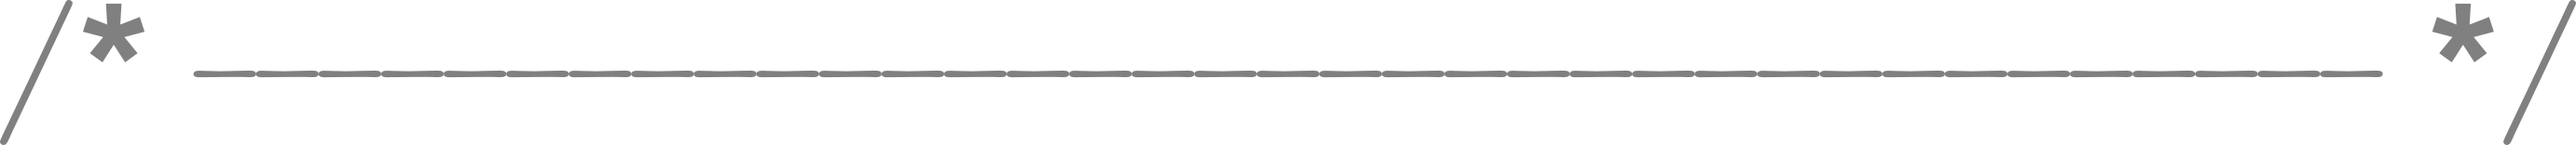
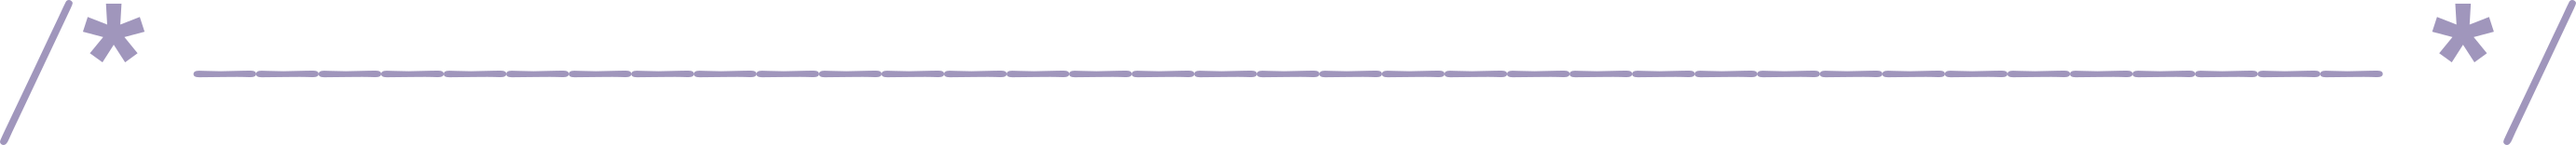
Made some color changes to buttons and to the title design underneath

diff --git a/css/skeleton.css b/css/skeleton.css
@@ -513,6 +513,7 @@ This is where all of my CSS rules will be stored until further notice
 
 #navButtonContainer {
   display: flex; 
+  justify-content: center;
   flex-wrap: wrap;
 }
 
@@ -531,6 +532,19 @@ This is where all of my CSS rules will be stored until further notice
   border-right: none;
   border-radius: 0;
   margin-bottom: 0;
+  transition: all .5s;
+}
+
+.navButtons:hover {
+  color: #333;
+  border-color: #333;
+  background-color: #DDD7F0;
+}
+
+@media (min-width: 550px) {
+  .navButtons {
+    width: 30%;
+  }
 }
 
 #currentPageButton {
